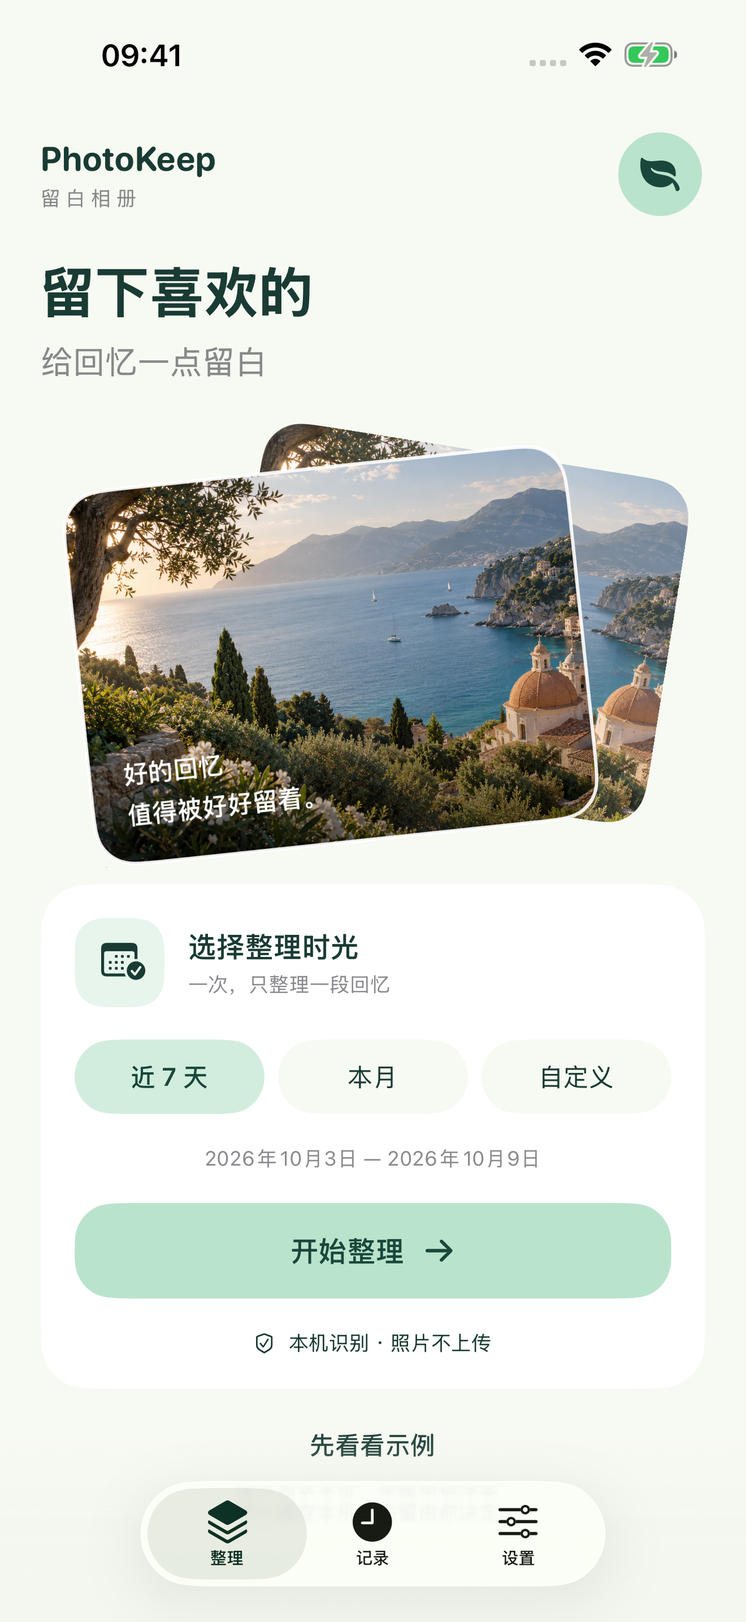
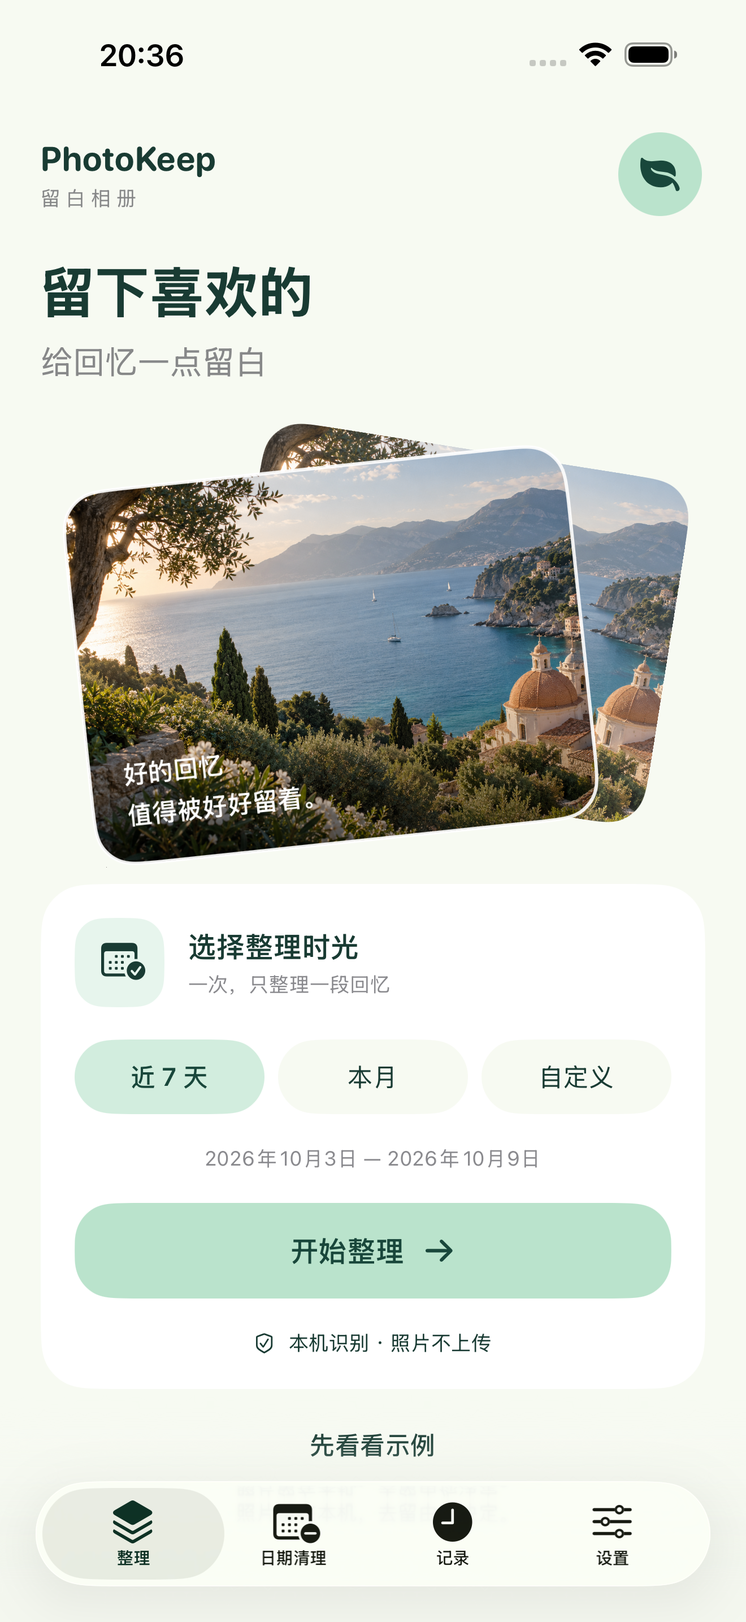
新增日期清理说明与界面截图

diff --git a/index.html b/index.html
@@ -1,1 +1,1 @@
-<!doctype html><html lang="zh-CN"><head><meta charset="utf-8"><meta name="viewport" content="width=device-width, initial-scale=1"><title>留白相册 PhotoKeep · 留下喜欢的，给回忆一点留白</title><meta name="description" content="选择一段时光，在 iPhone 本机找到相似照片，挑选喜欢的，再确认删除。留白相册 PhotoKeep，无需账号，首版免费无广告。"><meta name="theme-color" content="#f7f8f3"><link rel="icon" href="assets/icon.png"><link rel="stylesheet" href="styles.css"></head><body><a class="skip" href="#main">跳到正文</a><div class="wrap"><header><a class="brand" href="./"><img src="assets/icon.png" alt="">留白相册<span>PhotoKeep</span></a><nav aria-label="主导航"><a href="#how">怎么整理</a><a href="privacy.html">隐私</a><a href="support.html">帮助</a></nav></header><main id="main"><section class="hero"><div><p class="eyebrow">A LITTLE SPACE FOR YOUR MEMORIES</p><h1>留下喜欢的。<br><em>给回忆一点留白。</em></h1><p class="intro">旅行拍了好多张，喜欢的其实就那几张。选一段时光，把相似画面放在一起，慢慢挑出值得留下的。</p><a class="button" href="#how">看看如何整理 <span aria-hidden="true">↗</span></a><p class="fine">适用于 iPhone · iOS 17 及以上<br>首版准备上线 · 免费，无广告、无内购</p></div><div class="hero-art"><div class="device"><img src="assets/home.png" width="1320" height="2868" alt="留白相册实际界面：选择近七天、本月或自定义日期，开始整理"></div><div class="stamp">✓ 本机识别 &nbsp; · &nbsp; 去留由你</div></div></section><section id="how" class="section"><div class="section-head"><p class="eyebrow">MAKE ROOM, KEEP THE MOMENT</p><h2>一次，只整理一段回忆。</h2><p>从上周的散步，到刚结束的旅行。把大相册拆成小任务，让每次取舍都轻一点。</p></div><div class="steps"><article class="step"><span class="num">01</span><h3>选一段时光</h3><p>近 7 天、本月，或自己选择起止日期。按拍摄日期查找，每次最多分析 5,000 张照片。</p></article><article class="step"><span class="num">02</span><h3>把喜欢的留下</h3><p>在授权日期范围内完整展示系统连拍，相近时间拍摄的相似画面自动分组。放大看细节，可以保留多张；收藏照片始终受到保护。</p></article><article class="step"><span class="num">03</span><h3>选好保留，直接清理</h3><p>默认保留每组建议照片，可换选、多留几张，或直接清理其余照片，再向系统确认。误删后通常可在系统「最近删除」中，于 30 天内恢复。</p></article></div></section><section class="section"><div class="photo-banner"><img src="assets/coast.png" width="1536" height="1024" loading="lazy" alt="阳光下的海湾与山间小镇，AI 辅助创作的示意照片"><div class="copy"><p class="eyebrow">YOURS, AND ONLY YOURS</p><h2>照片里的生活，<br>留在你的设备上。</h2><p>无需账号，也无需把相册交给开发者。相似识别在 iPhone 本机完成，你授权多少照片，留白就只分析多少。</p><a href="privacy.html">了解隐私保护 →</a></div></div></section><section class="section"><div class="section-head"><p class="eyebrow">A CLOSER LOOK</p><h2>每一步，都看得清楚。</h2><p>以下为 App 实际运行界面；相册中的照片使用专门准备的示例素材。</p></div><div class="screens"><article class="screen"><img src="assets/groups.png" width="1320" height="2868" loading="lazy" alt="相似照片分组结果"><p><strong>相似画面放在一起</strong>清楚了解已检查和未能分析的照片。</p></article><article class="screen"><img src="assets/keepers.png" width="1320" height="2868" loading="lazy" alt="选择保留照片的界面"><p><strong>保留多少，你说了算</strong>推荐不是决定，喜欢就多留几张。</p></article><article class="screen"><img src="assets/review.png" width="1320" height="2868" loading="lazy" alt="删除前确认清单"><p><strong>也可检查待清理清单</strong>需要细看时，任何一张都能从清单中移除。</p></article></div></section><section class="section"><div class="section-head"><h2>你可能还想知道。</h2></div><details><summary>和系统「重复项目」有什么不同？</summary><p>留白提供主动选择日期、相似画面分组、默认保留、多张保留和直接批量清理流程。它辅助你做选择，不保证识别全部重复或相似照片，也不替代系统的重复项目合并。</p></details><details><summary>会自动删除，或者清空最近删除吗？</summary><p>不会。只有你确认后才会请求系统删除，也不会自动永久清空「最近删除」。若开启 iCloud 照片，删除会同步影响同一图库的其他设备。</p></details><details><summary>为什么有些照片没被找到？</summary><p>可能没有授权、尚未下载到本机，或不符合相似条件。普通相似候选比较拍摄时间相隔不超过 10 分钟的照片；较长时间间隔的重复照片可能不会归组。照片过多或过于密集时，需要缩小日期范围。</p></details><details><summary>需要网络吗？</summary><p>本地照片的识别不需要网络。默认不请求下载云端图像；在设置中开启 iCloud 下载后，Apple 照片服务会按需联网下载，可能产生流量及临时存储。照片不会上传至开发者服务器。</p></details><details><summary>删除后，为什么空间没有立刻增加？</summary><p>照片通常会先在系统「最近删除」保留 30 天。设备和 iCloud 空间由系统管理，不一定立即变化。留白记录成功删除张数，不把原文件大小当成立即释放的手机空间。</p></details></section><section class="cta"><img src="assets/icon.png" alt="留白相册图标"><h2>少一点重复。<br>多一点喜欢。</h2><p class="fine">首版准备上线。需要帮助，随时联系我们。</p><a class="button secondary" href="support.html">使用帮助与支持 ↗</a></section></main><footer><span>© 2026 Peng Lin · 留白相册 PhotoKeep</span><div><a href="privacy.html">隐私政策</a><a href="support.html">技术支持</a><a href="mailto:540933120@qq.com">联系我们</a></div></footer></div></body></html>
+<!doctype html><html lang="zh-CN"><head><meta charset="utf-8"><meta name="viewport" content="width=device-width, initial-scale=1"><title>留白相册 PhotoKeep · 留下喜欢的，给回忆一点留白</title><meta name="description" content="选择一段时光，在 iPhone 本机找到相似照片，挑选喜欢的，再确认删除。留白相册 PhotoKeep，无需账号，首版免费无广告。"><meta name="theme-color" content="#f7f8f3"><link rel="icon" href="assets/icon.png"><link rel="stylesheet" href="styles.css"></head><body><a class="skip" href="#main">跳到正文</a><div class="wrap"><header><a class="brand" href="./"><img src="assets/icon.png" alt="">留白相册<span>PhotoKeep</span></a><nav aria-label="主导航"><a href="#how">怎么整理</a><a href="privacy.html">隐私</a><a href="support.html">帮助</a></nav></header><main id="main"><section class="hero"><div><p class="eyebrow">A LITTLE SPACE FOR YOUR MEMORIES</p><h1>留下喜欢的。<br><em>给回忆一点留白。</em></h1><p class="intro">旅行拍了好多张，喜欢的其实就那几张。选一段时光，把相似画面放在一起，慢慢挑出值得留下的。</p><a class="button" href="#how">看看如何整理 <span aria-hidden="true">↗</span></a><p class="fine">适用于 iPhone · iOS 17 及以上<br>首版准备上线 · 免费，无广告、无内购</p></div><div class="hero-art"><div class="device"><img src="assets/home.png" width="1320" height="2868" alt="留白相册实际界面：选择近七天、本月或自定义日期，开始整理"></div><div class="stamp">✓ 本机识别 &nbsp; · &nbsp; 去留由你</div></div></section><section id="how" class="section"><div class="section-head"><p class="eyebrow">MAKE ROOM, KEEP THE MOMENT</p><h2>一次，只整理一段回忆。</h2><p>从上周的散步，到刚结束的旅行。把大相册拆成小任务，让每次取舍都轻一点。</p></div><div class="steps"><article class="step"><span class="num">01</span><h3>选一段时光</h3><p>近 7 天、本月，或自己选择起止日期。按拍摄日期查找，每次最多分析 5,000 张照片。</p></article><article class="step"><span class="num">02</span><h3>把喜欢的留下</h3><p>在授权日期范围内完整展示系统连拍，相近时间拍摄的相似画面自动分组。放大看细节，可以保留多张；收藏照片始终受到保护。</p></article><article class="step"><span class="num">03</span><h3>选好保留，直接清理</h3><p>默认保留每组建议照片，可换选、多留几张，或直接清理其余照片，再向系统确认。误删后通常可在系统「最近删除」中，于 30 天内恢复。</p></article></div></section><section class="section"><div class="section-head"><p class="eyebrow">ANOTHER WAY TO MAKE SPACE</p><h2>确定不再需要？按日期清理。</h2><p>独立的「日期清理」支持近 7 天、近 30 天和自定义日期。先看照片与数量，再确认删除。</p><p><strong>此入口包含收藏，不自动保留照片。</strong>应用会再次确认日期、总张数及收藏数量，然后由系统确认；相似整理仍然保护收藏。</p></div></section><section class="section"><div class="photo-banner"><img src="assets/coast.png" width="1536" height="1024" loading="lazy" alt="阳光下的海湾与山间小镇，AI 辅助创作的示意照片"><div class="copy"><p class="eyebrow">YOURS, AND ONLY YOURS</p><h2>照片里的生活，<br>留在你的设备上。</h2><p>无需账号，也无需把相册交给开发者。相似识别在 iPhone 本机完成，你授权多少照片，留白就只分析多少。</p><a href="privacy.html">了解隐私保护 →</a></div></div></section><section class="section"><div class="section-head"><p class="eyebrow">A CLOSER LOOK</p><h2>每一步，都看得清楚。</h2><p>以下为 App 实际运行界面；相册中的照片使用专门准备的示例素材。</p></div><div class="screens"><article class="screen"><img src="assets/groups.png" width="1320" height="2868" loading="lazy" alt="相似照片分组结果"><p><strong>相似画面放在一起</strong>清楚了解已检查和未能分析的照片。</p></article><article class="screen"><img src="assets/keepers.png" width="1320" height="2868" loading="lazy" alt="选择保留照片的界面"><p><strong>保留多少，你说了算</strong>推荐不是决定，喜欢就多留几张。</p></article><article class="screen"><img src="assets/date-cleanup.png" width="1320" height="2868" loading="lazy" alt="日期清理界面，包含收藏并明确显示待删除数量"><p><strong>按日期全部清理</strong>包含收藏，先查看范围和数量，再明确确认。</p></article></div></section><section class="section"><div class="section-head"><h2>你可能还想知道。</h2></div><details><summary>和系统「重复项目」有什么不同？</summary><p>留白提供主动选择日期、相似画面分组、默认保留、多张保留和直接批量清理流程。它辅助你做选择，不保证识别全部重复或相似照片，也不替代系统的重复项目合并。</p></details><details><summary>会自动删除，或者清空最近删除吗？</summary><p>不会。只有你确认后才会请求系统删除，也不会自动永久清空「最近删除」。若开启 iCloud 照片，删除会同步影响同一图库的其他设备。</p></details><details><summary>为什么有些照片没被找到？</summary><p>可能没有授权、尚未下载到本机，或不符合相似条件。普通相似候选比较拍摄时间相隔不超过 10 分钟的照片；较长时间间隔的重复照片可能不会归组。照片过多或过于密集时，需要缩小日期范围。</p></details><details><summary>需要网络吗？</summary><p>本地照片的识别不需要网络。默认不请求下载云端图像；在设置中开启 iCloud 下载后，Apple 照片服务会按需联网下载，可能产生流量及临时存储。照片不会上传至开发者服务器。</p></details><details><summary>删除后，为什么空间没有立刻增加？</summary><p>照片通常会先在系统「最近删除」保留 30 天。设备和 iCloud 空间由系统管理，不一定立即变化。留白记录成功删除张数，不把原文件大小当成立即释放的手机空间。</p></details></section><section class="cta"><img src="assets/icon.png" alt="留白相册图标"><h2>少一点重复。<br>多一点喜欢。</h2><p class="fine">首版准备上线。需要帮助，随时联系我们。</p><a class="button secondary" href="support.html">使用帮助与支持 ↗</a></section></main><footer><span>© 2026 Peng Lin · 留白相册 PhotoKeep</span><div><a href="privacy.html">隐私政策</a><a href="support.html">技术支持</a><a href="mailto:540933120@qq.com">联系我们</a></div></footer></div></body></html>

diff --git a/support.html b/support.html
@@ -1,1 +1,1 @@
-<!doctype html><html lang="zh-CN"><head><meta charset="utf-8"><meta name="viewport" content="width=device-width, initial-scale=1"><title>使用帮助与技术支持 · 留白相册 PhotoKeep</title><meta name="description" content="了解如何按日期整理相似照片、挑选保留、确认删除、恢复照片及管理 iCloud 下载。"><link rel="icon" href="assets/icon.png"><link rel="stylesheet" href="styles.css"></head><body><div class="wrap"><header><a class="brand" href="./"><img src="assets/icon.png" alt="">留白相册<span>PhotoKeep</span></a><nav><a href="./">首页</a><a href="privacy.html">隐私</a></nav></header><main class="document"><p class="eyebrow">A LITTLE HELP</p><h1>轻松整理，安心保留。</h1><p>适用于留白相册 1.0 · iPhone / iOS 17 及以上</p><h2>从选择日期开始</h2><ol><li>打开「整理」，选择近 7 天、本月或自定义日期。包含所选首尾两天，以照片拍摄时间和当前时区为准。</li><li>点击「开始整理」，按需授予相册权限。仅允许部分照片时，仅扫描已授权内容。</li><li>扫描后每组已有默认保留项；满意时可直接清理。打开一组后，点「保留这张」换选，点「也保留」多选。每组至少留一张，收藏照片始终保留。</li><li>结果页可批量清理未保留照片，组内按钮只清理当前组。也可先检查清单；选择会自动保存。</li><li>点击清理后由系统确认。取消会保留选择，只有成功的操作会计入整理记录。</li></ol><h2>照片没有出现或扫描较慢</h2><p>检查日期和相册权限。默认只分析本地可读取的照片，如需处理云端照片，可在设置中允许 iCloud 下载。下载可能需要流量和临时空间。</p><p>系统连拍按同一序列归组，仅包含选定日期和授权范围内的成员。每次最多分析 5,000 张照片，比较拍摄时间相隔不超过 10 分钟的画面。照片过于密集时也可能提示缩小日期范围。这是为了控制设备内存和处理时间；跨较长时间的重复照片可能不会归组。</p><p>进入后台会停止扫描。回到 App 后可重新开始，已保存的识别缓存能减少重复分析。正在扫描时可以主动停止。</p><h2>建议保留意味着什么</h2><p>推荐优先考虑收藏、系统连拍挑选和分辨率，不是审美评分，也不会判断照片里的人是谁。你可以保留多张或跳过整组。实况照片只分析静态图像；删除实况照片时会一起移除动态部分。</p><h2>找回误删的照片</h2><p class="callout">打开系统「照片」App → 最近删除 → 验证身份 → 选择照片 → 恢复。通常可以在 30 天内恢复。永久清空或到期后无法依靠留白恢复。</p><p>开启 iCloud 照片时，删除会同步影响同一图库的其他设备。留白不自动清空最近删除，也不保留照片备份。</p><h2>手机空间为什么没立刻增加</h2><p>系统最近删除和 iCloud 优化存储都会影响可用空间。留白只报告已删除的照片数量，不把原始文件大小当成已释放空间。确认不再需要后，可以自行在系统照片中清理最近删除。</p><h2>收费与版本</h2><p>首版免费，无广告、无内购。将来版本的功能或收费方式如有变化，会在对应版本的产品说明和隐私政策中明确。</p><h2>需要进一步帮助</h2><p>请发送 iPhone 型号、iOS 版本、App 版本、遇到问题的步骤及提示文字。无需发送私人照片。</p><a class="button" href="mailto:540933120@qq.com?subject=PhotoKeep%20Support">发送支持邮件 ↗</a><p><a href="mailto:540933120@qq.com">540933120@qq.com</a><br>开发者：Peng Lin</p></main><footer><span>© 2026 Peng Lin</span><div><a href="./">产品首页</a><a href="privacy.html">隐私政策</a></div></footer></div></body></html>
+<!doctype html><html lang="zh-CN"><head><meta charset="utf-8"><meta name="viewport" content="width=device-width, initial-scale=1"><title>使用帮助与技术支持 · 留白相册 PhotoKeep</title><meta name="description" content="了解如何按日期整理相似照片、挑选保留、确认删除、恢复照片及管理 iCloud 下载。"><link rel="icon" href="assets/icon.png"><link rel="stylesheet" href="styles.css"></head><body><div class="wrap"><header><a class="brand" href="./"><img src="assets/icon.png" alt="">留白相册<span>PhotoKeep</span></a><nav><a href="./">首页</a><a href="privacy.html">隐私</a></nav></header><main class="document"><p class="eyebrow">A LITTLE HELP</p><h1>轻松整理，安心保留。</h1><p>适用于留白相册 1.0 · iPhone / iOS 17 及以上</p><h2>从选择日期开始</h2><ol><li>打开「整理」，选择近 7 天、本月或自定义日期。包含所选首尾两天，以照片拍摄时间和当前时区为准。</li><li>点击「开始整理」，按需授予相册权限。仅允许部分照片时，仅扫描已授权内容。</li><li>扫描后每组已有默认保留项；满意时可直接清理。打开一组后，点「保留这张」换选，点「也保留」多选。每组至少留一张，收藏照片始终保留。</li><li>结果页可批量清理未保留照片，组内按钮只清理当前组。也可先检查清单；选择会自动保存。</li><li>点击清理后由系统确认。取消会保留选择，只有成功的操作会计入整理记录。</li></ol><h2>按日期全部清理（包含收藏）</h2><p>打开独立的「日期清理」，选择近 7 天、近 30 天或自定义日期。先查看范围内照片及数量，点击删除后，应用会明确确认日期、张数和收藏数量，再由系统确认。此入口不判断相似、不自动保留一张、不使用相似整理的忽略列表，会删除范围内全部可删除照片，包含收藏、实况和系统允许读取的隐藏照片；不含视频。</p><p>系统不允许删除的照片会计数并保留；每次最多 5,000 张，超出需缩小日期。换日期、图库变化或进入后台会使预览失效，需重新查看。仅授权部分照片时，数量不代表整个相册。任何取消都不计成功，成功操作会标记为「按日期清理」。</p><h2>照片没有出现或扫描较慢</h2><p>检查日期和相册权限。默认只分析本地可读取的照片，如需处理云端照片，可在设置中允许 iCloud 下载。下载可能需要流量和临时空间。</p><p>系统连拍按同一序列归组，仅包含选定日期和授权范围内的成员。每次最多分析 5,000 张照片，比较拍摄时间相隔不超过 10 分钟的画面。照片过于密集时也可能提示缩小日期范围。这是为了控制设备内存和处理时间；跨较长时间的重复照片可能不会归组。</p><p>进入后台会停止扫描。回到 App 后可重新开始，已保存的识别缓存能减少重复分析。正在扫描时可以主动停止。</p><h2>建议保留意味着什么</h2><p>推荐优先考虑收藏、系统连拍挑选和分辨率，不是审美评分，也不会判断照片里的人是谁。你可以保留多张或跳过整组。实况照片只分析静态图像；删除实况照片时会一起移除动态部分。</p><h2>找回误删的照片</h2><p class="callout">打开系统「照片」App → 最近删除 → 验证身份 → 选择照片 → 恢复。通常可以在 30 天内恢复。永久清空或到期后无法依靠留白恢复。</p><p>开启 iCloud 照片时，删除会同步影响同一图库的其他设备。留白不自动清空最近删除，也不保留照片备份。</p><h2>手机空间为什么没立刻增加</h2><p>系统最近删除和 iCloud 优化存储都会影响可用空间。留白只报告已删除的照片数量，不把原始文件大小当成已释放空间。确认不再需要后，可以自行在系统照片中清理最近删除。</p><h2>收费与版本</h2><p>首版免费，无广告、无内购。将来版本的功能或收费方式如有变化，会在对应版本的产品说明和隐私政策中明确。</p><h2>需要进一步帮助</h2><p>请发送 iPhone 型号、iOS 版本、App 版本、遇到问题的步骤及提示文字。无需发送私人照片。</p><a class="button" href="mailto:540933120@qq.com?subject=PhotoKeep%20Support">发送支持邮件 ↗</a><p><a href="mailto:540933120@qq.com">540933120@qq.com</a><br>开发者：Peng Lin</p></main><footer><span>© 2026 Peng Lin</span><div><a href="./">产品首页</a><a href="privacy.html">隐私政策</a></div></footer></div></body></html>

diff --git a/privacy.html b/privacy.html
@@ -1,1 +1,1 @@
-<!doctype html><html lang="zh-CN"><head><meta charset="utf-8"><meta name="viewport" content="width=device-width, initial-scale=1"><title>隐私政策 · 留白相册 PhotoKeep</title><meta name="description" content="留白相册 1.0 隐私政策：在本机处理照片，不含广告或追踪 SDK，了解权限、缓存、iCloud 及删除机制。"><link rel="icon" href="assets/icon.png"><link rel="stylesheet" href="styles.css"></head><body><div class="wrap"><header><a class="brand" href="./"><img src="assets/icon.png" alt="">留白相册<span>PhotoKeep</span></a><nav><a href="./">首页</a><a href="support.html">帮助</a></nav></header><main class="document"><p class="eyebrow">PRIVACY, BY DESIGN</p><h1>你的照片属于你。</h1><p>隐私政策 · 生效日期：2026 年 10 月 9 日<br>适用产品：留白相册 PhotoKeep 1.0 · 开发者：Peng Lin</p><p class="callout">当前版本不要求账号，没有广告、内购、分析或追踪 SDK。照片相似识别在设备本地完成，开发者不接收你的相册内容。</p><h2>我们如何使用照片权限</h2><p>经你授权后，App 使用 Apple PhotoKit 读取授权范围内的照片、拍摄时间、像素尺寸、收藏、可删除状态、系统连拍标识及挑选状态，用于日期筛选、相似分组、建议保留和安全删除。使用 Apple Vision 或本机感知指纹生成视觉特征。开发者不上传、出售或接收照片、特征和相册元数据。</p><p>你可以允许所有照片或仅选择部分照片，并随时通过系统设置缩小或撤回权限。授权部分照片时，扫描结果仅代表这些照片，不代表完整相册。</p><h2>本地保存的数据</h2><p>App 在设备内保存识别特征缓存、照片本地标识、整理进度、忽略列表，以及成功删除的日期和数量。缓存和整理状态使用系统文件保护并排除系统备份。设置选项保存在 App 的本地偏好中。不会为照片建立开发者云端备份。</p><p>你可以在设置中清理识别缓存、重置忽略列表，在记录页清空整理记录。卸载 App 会移除 App 本地数据，但不会恢复已从系统相册删除的照片，也不会删除仍保留在系统相册中的照片。</p><h2>iCloud 与网络</h2><p>默认不请求下载云端图像。只有你在设置中开启允许下载后，Apple 照片服务才会按需获取分析或预览所需图像。这可能消耗网络流量及设备临时存储，适用 Apple 的服务和隐私政策。图像下载后仍在本机识别，不会发送给开发者。</p><h2>删除由你确认</h2><p>扫描后 App 会准备默认保留和待清理方案，你可以调整或检查清单。只有你点击清理并通过系统确认，才会删除照片。若开启 iCloud 照片，删除会同步到使用同一图库的其他设备。被删除照片通常在系统「最近删除」中保留 30 天。App 不会自动永久清空最近删除；请通过系统照片 App 检查及恢复。</p><h2>网站与主动联系</h2><p>本网站托管于 GitHub Pages，无广告、追踪脚本或第三方分析服务。访问网站时，GitHub 可能出于服务运行及安全目的处理 IP 地址、浏览器信息和请求日志，请参阅 <a href="https://docs.github.com/en/site-policy/privacy-policies/github-general-privacy-statement">GitHub 隐私声明</a>。</p><p>若主动发邮件寻求支持，我们会收到你提供的邮箱及邮件内容，只用于回复、排查你报告的问题及必要的支持记录。请勿附带私人照片或其他敏感资料。如需删除主动提供的支持资料，可通过下方邮箱联系。</p><h2>未来版本</h2><p>本政策描述当前 1.0 版本。未来如增加购买、广告或其他改变数据处理方式的功能，会在相应版本更新隐私政策、商店披露，并在需要时请求相应权限或同意。当前版本没有接入 AdMob。</p><h2>联系我们</h2><p>开发者：Peng Lin<br>隐私及支持邮箱：<a href="mailto:540933120@qq.com">540933120@qq.com</a></p></main><footer><span>© 2026 Peng Lin</span><div><a href="./">产品首页</a><a href="support.html">使用帮助</a></div></footer></div></body></html>
+<!doctype html><html lang="zh-CN"><head><meta charset="utf-8"><meta name="viewport" content="width=device-width, initial-scale=1"><title>隐私政策 · 留白相册 PhotoKeep</title><meta name="description" content="留白相册 1.0 隐私政策：在本机处理照片，不含广告或追踪 SDK，了解权限、缓存、iCloud 及删除机制。"><link rel="icon" href="assets/icon.png"><link rel="stylesheet" href="styles.css"></head><body><div class="wrap"><header><a class="brand" href="./"><img src="assets/icon.png" alt="">留白相册<span>PhotoKeep</span></a><nav><a href="./">首页</a><a href="support.html">帮助</a></nav></header><main class="document"><p class="eyebrow">PRIVACY, BY DESIGN</p><h1>你的照片属于你。</h1><p>隐私政策 · 生效日期：2026 年 10 月 9 日<br>适用产品：留白相册 PhotoKeep 1.0 · 开发者：Peng Lin</p><p class="callout">当前版本不要求账号，没有广告、内购、分析或追踪 SDK。照片相似识别在设备本地完成，开发者不接收你的相册内容。</p><h2>我们如何使用照片权限</h2><p>经你授权后，App 使用 Apple PhotoKit 读取授权范围内的照片、拍摄时间、像素尺寸、收藏、可删除状态、系统连拍标识及挑选状态，用于日期筛选、相似分组、建议保留和安全删除。使用 Apple Vision 或本机感知指纹生成视觉特征。开发者不上传、出售或接收照片、特征和相册元数据。</p><p>你可以允许所有照片或仅选择部分照片，并随时通过系统设置缩小或撤回权限。授权部分照片时，扫描结果仅代表这些照片，不代表完整相册。</p><h2>本地保存的数据</h2><p>App 在设备内保存识别特征缓存、照片本地标识、整理进度、忽略列表，以及成功删除的日期和数量。缓存和整理状态使用系统文件保护并排除系统备份。设置选项保存在 App 的本地偏好中。不会为照片建立开发者云端备份。</p><p>你可以在设置中清理识别缓存、重置忽略列表，在记录页清空整理记录。卸载 App 会移除 App 本地数据，但不会恢复已从系统相册删除的照片，也不会删除仍保留在系统相册中的照片。</p><h2>iCloud 与网络</h2><p>默认不请求下载云端图像。只有你在设置中开启允许下载后，Apple 照片服务才会按需获取分析或预览所需图像。这可能消耗网络流量及设备临时存储，适用 Apple 的服务和隐私政策。图像下载后仍在本机识别，不会发送给开发者。</p><h2>删除由你确认</h2><p>相似整理会准备默认保留和待清理方案，并保护收藏照片。独立的日期清理会包含收藏及系统允许读取的隐藏照片，不做相似判断或自动保留；删除前会明确确认日期、数量和收藏数量。只有你点击清理并通过系统确认，才会删除照片。若开启 iCloud 照片，删除会同步到使用同一图库的其他设备。被删除照片通常在系统「最近删除」中保留 30 天。App 不会自动永久清空最近删除；请通过系统照片 App 检查及恢复。</p><h2>网站与主动联系</h2><p>本网站托管于 GitHub Pages，无广告、追踪脚本或第三方分析服务。访问网站时，GitHub 可能出于服务运行及安全目的处理 IP 地址、浏览器信息和请求日志，请参阅 <a href="https://docs.github.com/en/site-policy/privacy-policies/github-general-privacy-statement">GitHub 隐私声明</a>。</p><p>若主动发邮件寻求支持，我们会收到你提供的邮箱及邮件内容，只用于回复、排查你报告的问题及必要的支持记录。请勿附带私人照片或其他敏感资料。如需删除主动提供的支持资料，可通过下方邮箱联系。</p><h2>未来版本</h2><p>本政策描述当前 1.0 版本。未来如增加购买、广告或其他改变数据处理方式的功能，会在相应版本更新隐私政策、商店披露，并在需要时请求相应权限或同意。当前版本没有接入 AdMob。</p><h2>联系我们</h2><p>开发者：Peng Lin<br>隐私及支持邮箱：<a href="mailto:540933120@qq.com">540933120@qq.com</a></p></main><footer><span>© 2026 Peng Lin</span><div><a href="./">产品首页</a><a href="support.html">使用帮助</a></div></footer></div></body></html>
